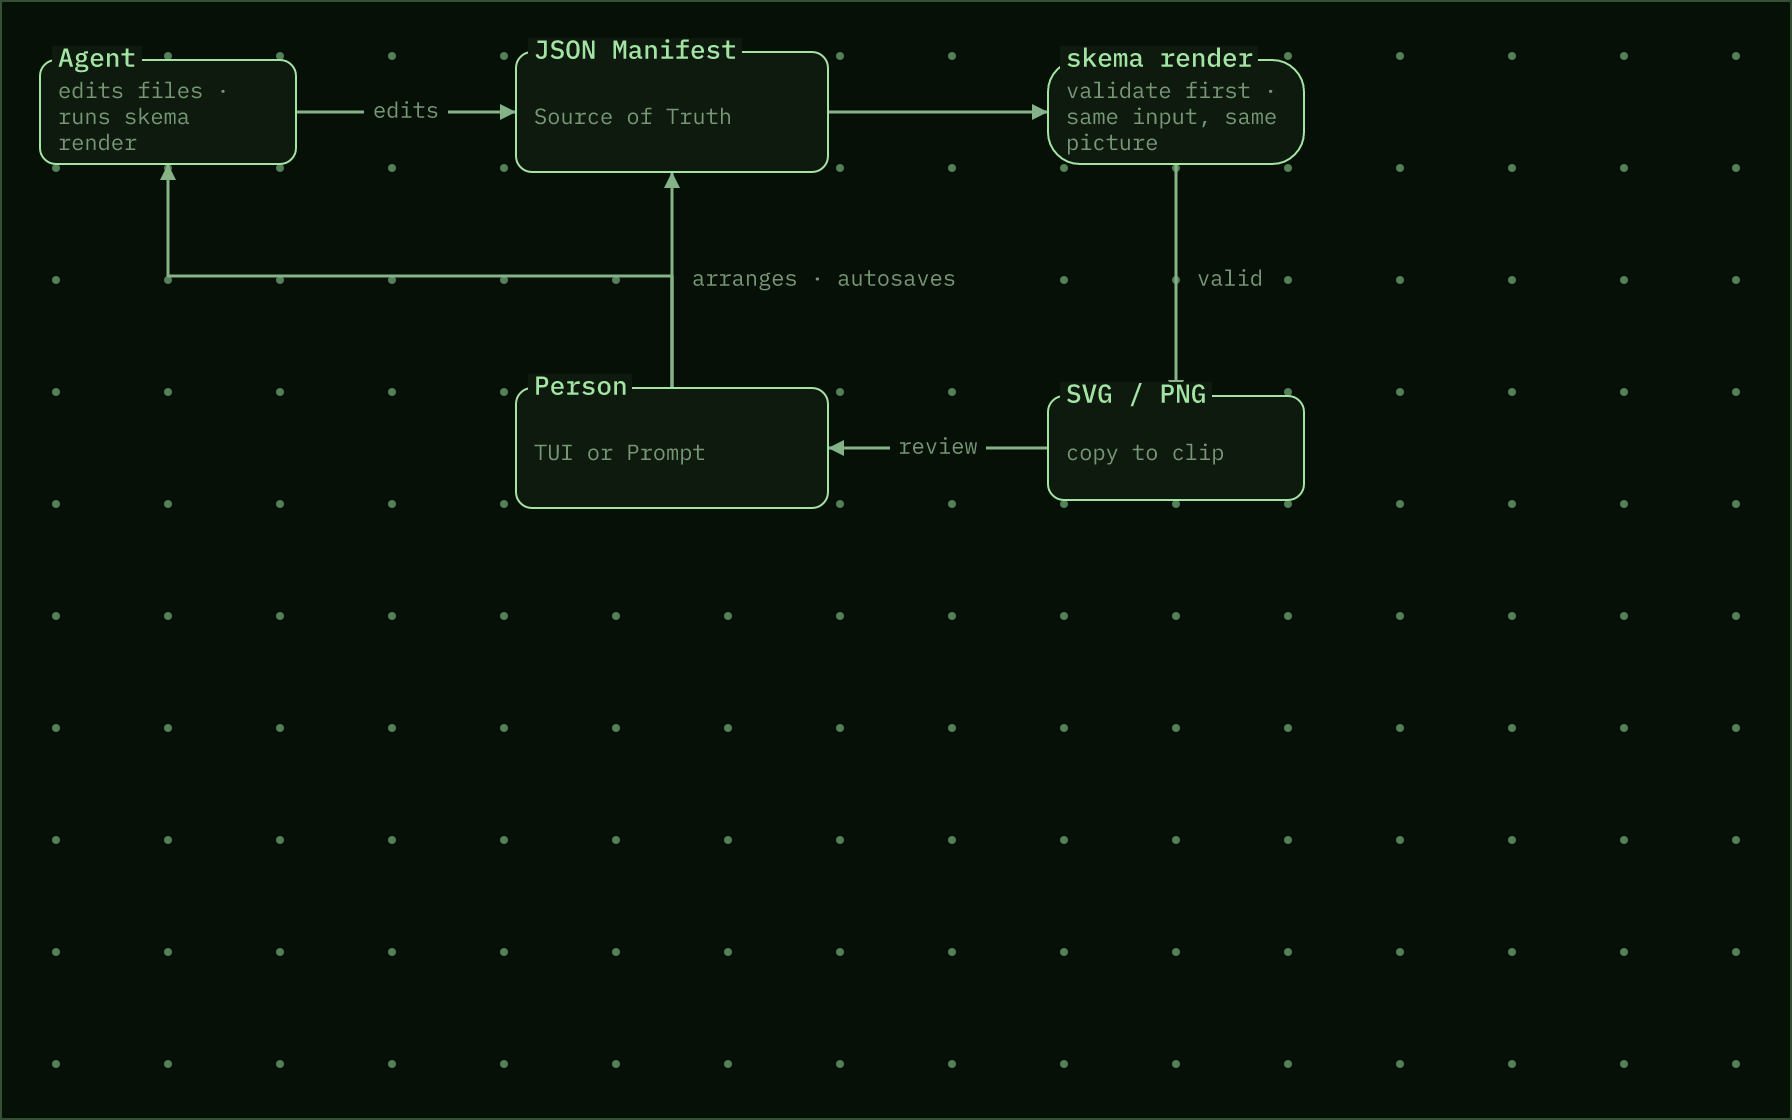
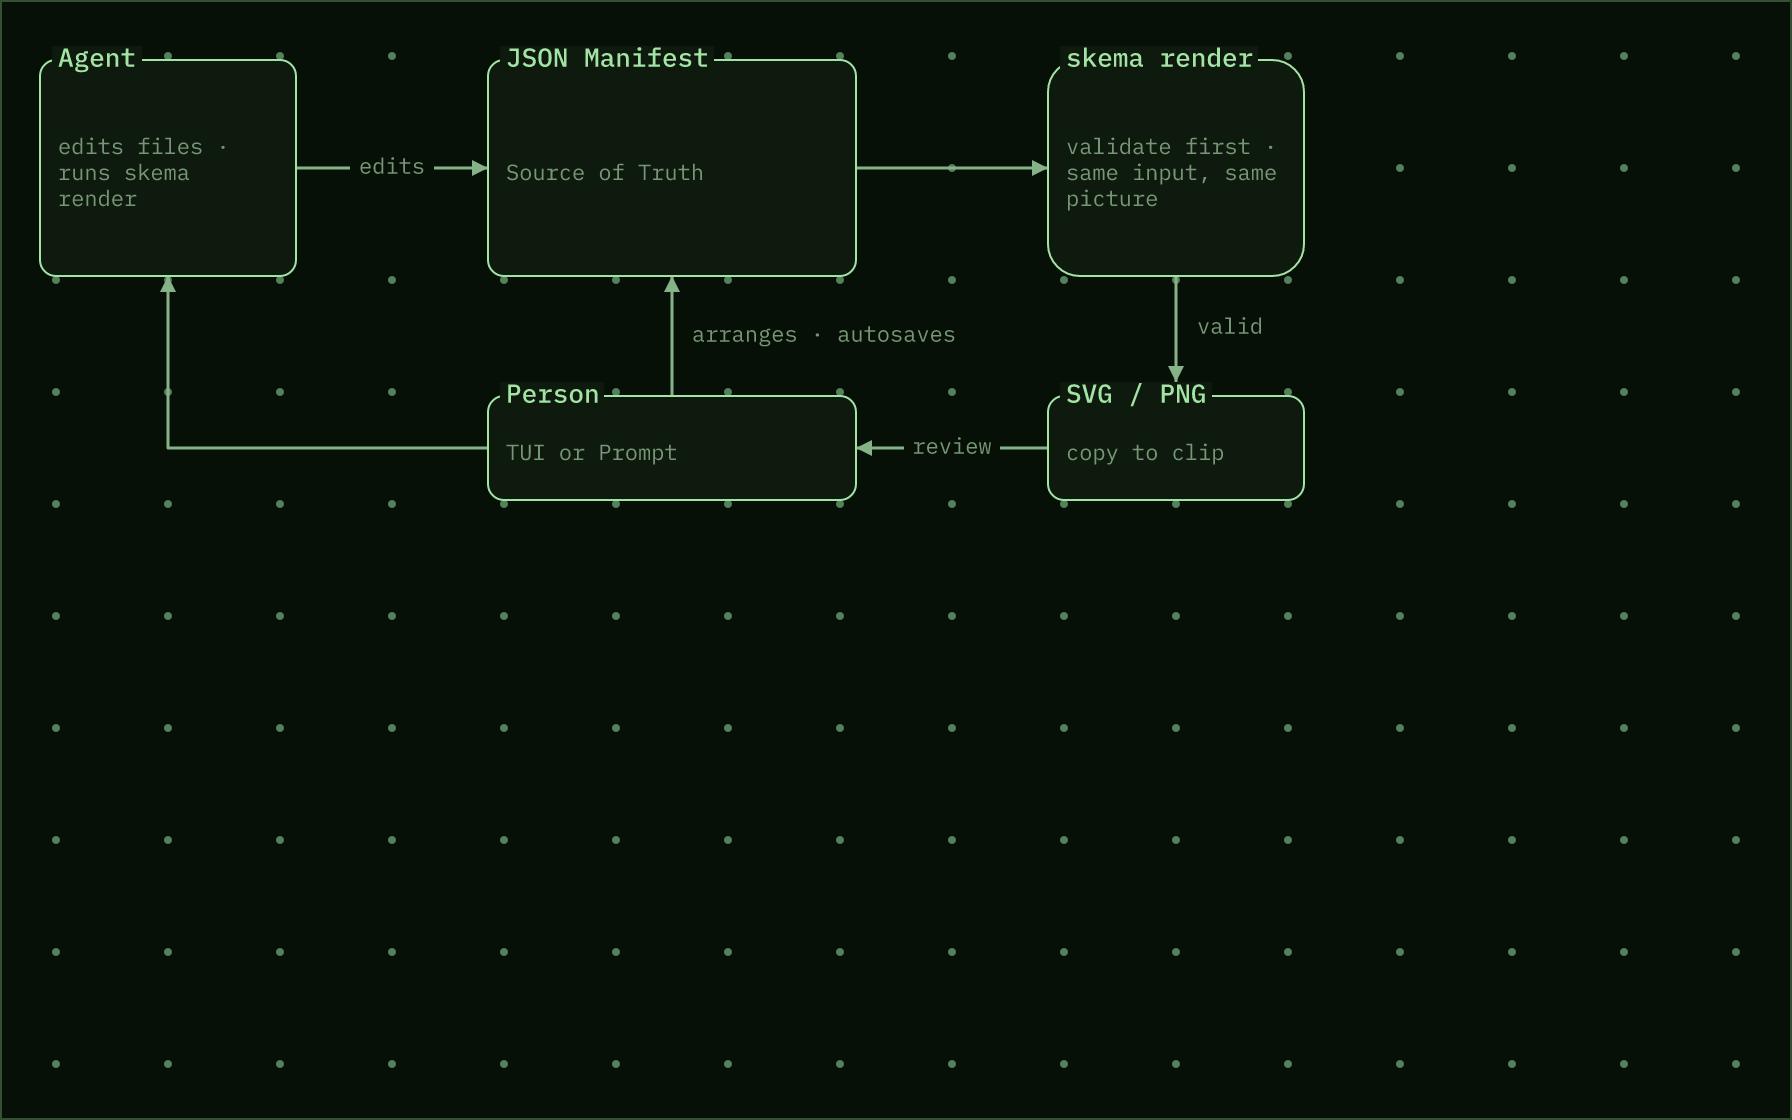
v0.3: merge terminal Editor work, bump to 0.3.0, refresh examples
- Fix LabelWarning test initializers for the new context field
- Version 0.3.0 across crate, plugin manifests, herdr plugin, and skill
- examples/flow.json and docs/skema-loop.json render with no Label warnings
- examples/aws-microservices: centered, AWS separator, 2x2 DB, pulses, GIF

diff --git a/crates/skema-tui/src/app.rs b/crates/skema-tui/src/app.rs
@@ -2141,6 +2141,7 @@ mod tests {
             text: "long text".into(),
             drawn: "long…".into(),
             fits: Some(5),
+            context: String::new(),
         };
         app.warnings = vec![warn("node", "b"), warn("edge", "a→b"), warn("separator", "sep-1"), warn("diagram", "")];
         app.warning_index = 0;

diff --git a/crates/skema-tui/src/ui.rs b/crates/skema-tui/src/ui.rs
@@ -631,6 +631,7 @@ mod tests {
             text: "A".into(),
             drawn: "A".into(),
             fits: None,
+            context: String::new(),
         }];
         let mut terminal = Terminal::new(TestBackend::new(100, 40)).unwrap();
         let mut hits = super::Hits::default();
